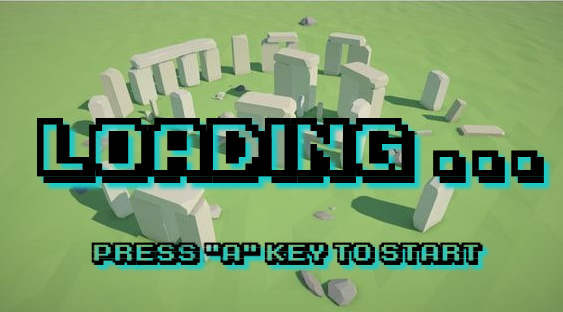
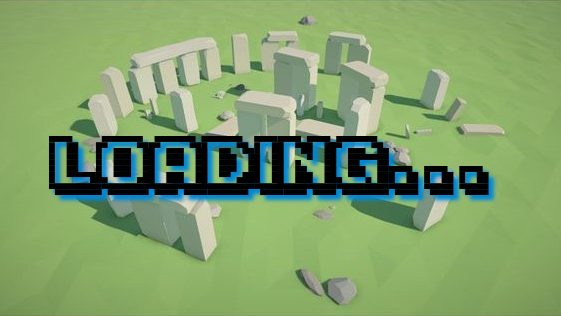
imagen de pantalla loading cambiada

diff --git a/src/gameRender.js b/src/gameRender.js
@@ -97,9 +97,9 @@ function renderLoading()
     globals.ctx.drawImage(
         globals.tileSets[7],
     
-        30, 0,                   //The source x and y position
+        0, 0,                   //The source x and y position
         534, 320,               //The source height and width
-        30, 0,                   //The destination x and y position
+        0, 0,                   //The destination x and y position
         534, 320,             //The destination height and width
     );                 
 }
@@ -107,13 +107,13 @@ function renderLoading()
 function renderBarra()
 {
     globals.ctx.fillStyle = "blue";
-    globals.ctx.fillRect(44, 240, globals.assetsLoaded * (470/globals.assetsToLoad.length), 32);
+    globals.ctx.fillRect(35, 240, globals.assetsLoaded * (470/globals.assetsToLoad.length), 20);
 
     if(globals.assetsLoaded * (470/globals.assetsToLoad.length) === 470)
     {
         globals.ctx.font         = '14px emulogic';
         globals.ctx.fillStyle    = 'blue';
-        globals.ctx.fillText("PRESS KEY  <SPACE>  TO CONTINUE", 60, 292);
+        globals.ctx.fillText("PRESS KEY  <SPACE>  TO CONTINUE", 57, 292);
     }
 }
 
@@ -132,9 +132,9 @@ function renderGameOver()
     globals.ctx.drawImage(
         globals.tileSets[6],
     
-        0, 0,                   //The source x and y position
+        15, 0,                   //The source x and y position
         534, 320,               //The source height and width
-        0, 0,                   //The destination x and y position
+        15, 0,                   //The destination x and y position
         534, 320,             //The destination height and width
     );  
 }
@@ -198,7 +198,7 @@ function renderHUD()
     globals.ctxHUD.fillStyle = 'lightgreen';
     globals.ctxHUD.fillText("HIGH SCORE", 62, 8);
     globals.ctxHUD.fillStyle =  'lightgray';
-    globals.ctxHUD.fillText(name+" " + highScore, 70, 18);
+    globals.ctxHUD.fillText(highScore, 75, 18);
 
     //Draw life 
     globals.ctxHUD.fillStyle = 'lightgreen';
